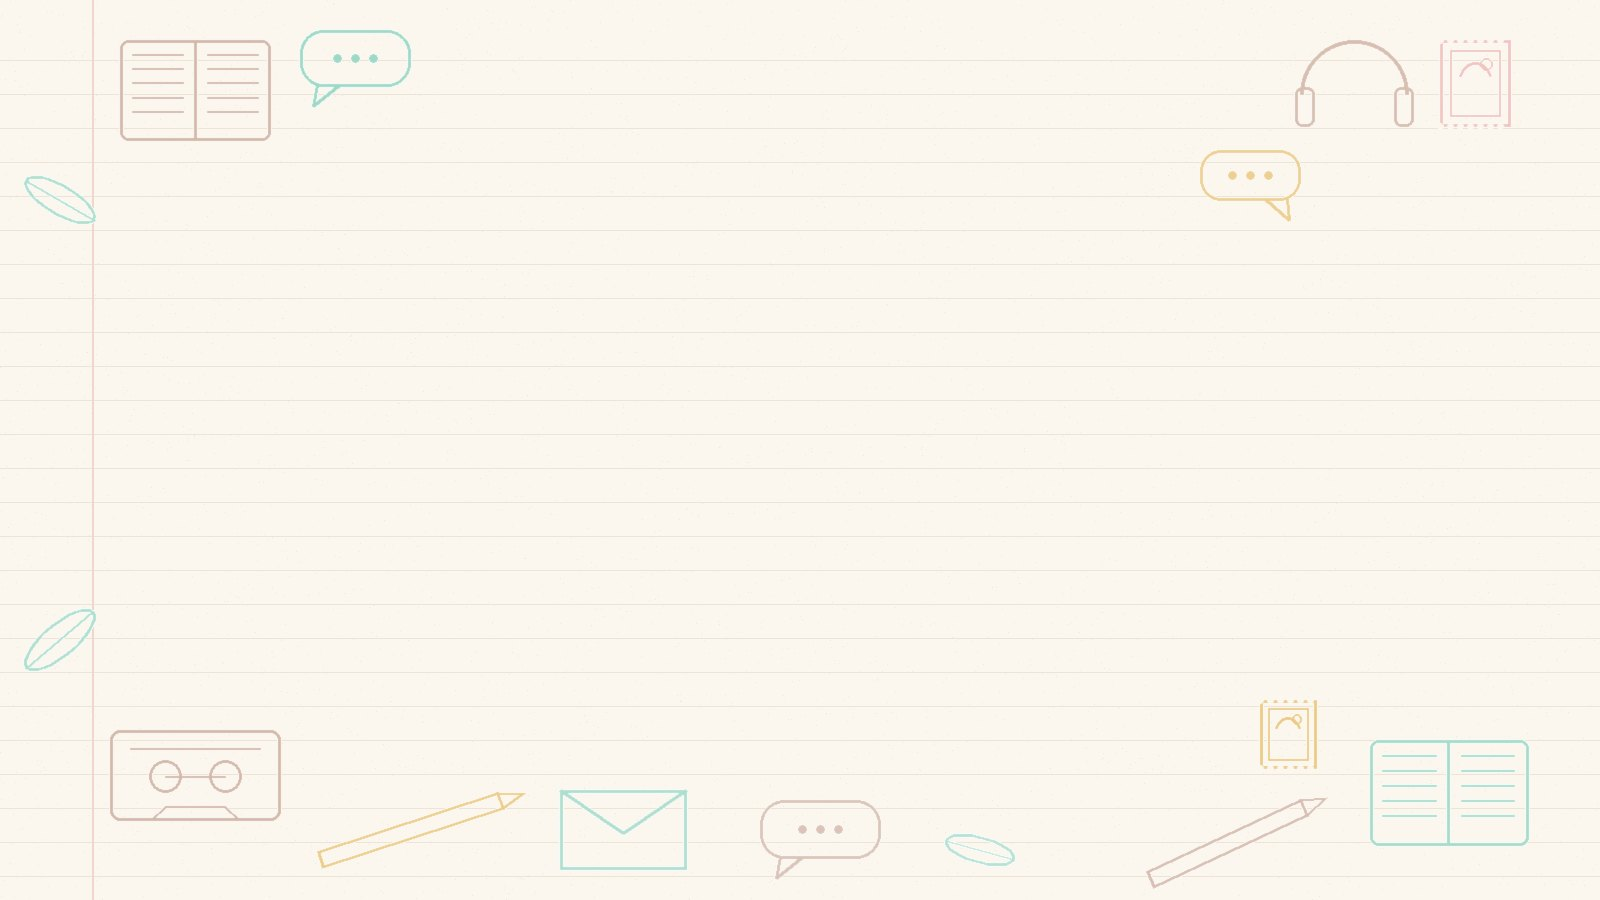
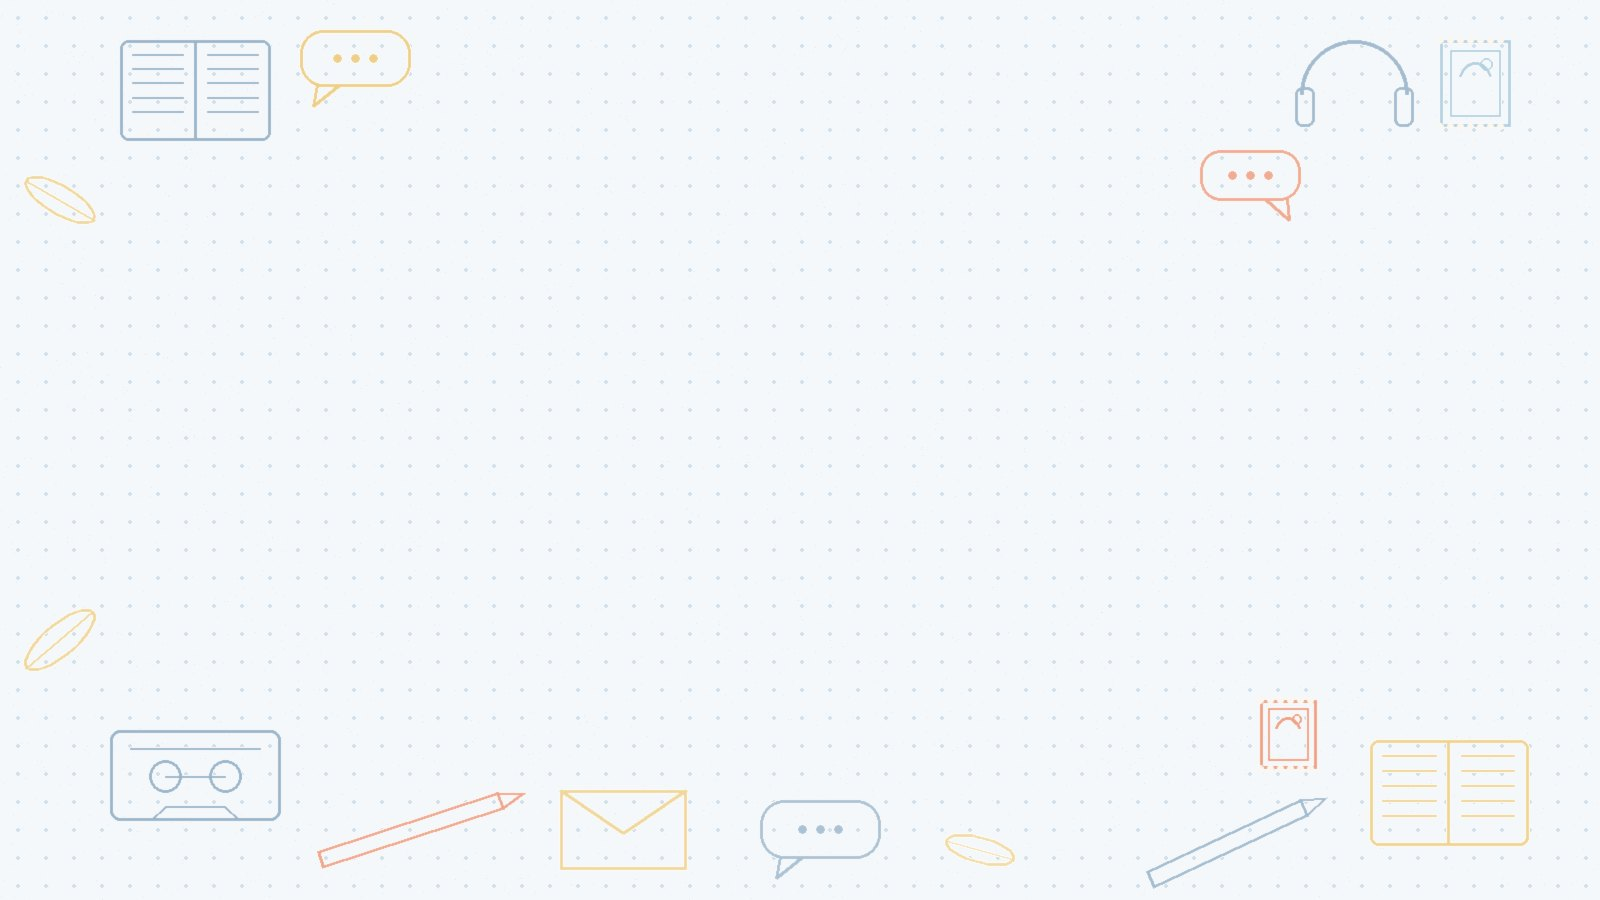
Tiếng Anh 9 – Unit 4: đổi bảng màu + ảnh nền riêng Tiếng Anh 9 (xanh dầu – vàng hướng dương, giấy chấm bi; bản đầu nâu – bạc hà trùng Toán 6); bản dùng thử, đã bảo vệ
Claude-Session: https://claude.ai/code/session_019YRemNpWToN7M1gvxRiyK2

diff --git a/tienganh9-unit04-vao10/index.html b/tienganh9-unit04-vao10/index.html
@@ -490,41 +490,41 @@ main{flex-direction:column; align-items:stretch; max-width:1240px;}
 
 /* ================= PHONG CÁCH RIÊNG – TIẾNG ANH 9 (21/11/2026) =================
    Mỗi môn / mỗi lớp có ảnh nền và thẻ tiêu đề riêng (không dùng chung với môn khác).
-   Tiếng Anh 9: nền giấy kem kẻ dòng nhạt, góc và mép dưới có hình vẽ nét mảnh (sổ tay, bong bóng hội thoại, tai nghe, bút chì, tem thư, lá)
-   vẽ bằng code (nen_ta9.py -> chung/bg.jpg); thẻ tiêu đề câu nâu cà phê → nâu quế (#3E2723 → #7B4B32), số câu vàng kem #FFE3A3,
-   viền dưới xanh bạc hà #4FC3A1; tên bài nâu đậm #4E2A1E, dòng phụ xanh bạc hà đậm #1F7A68.
-   Chỉ đổi màu / ảnh nền, không đổi bố cục khuôn. */
-body, body.part-thong-hieu, body.part-van-dung{background:#FBF7EF url("bg.jpg") center center / cover no-repeat fixed;}
-.qhead.qh5{background:linear-gradient(135deg,#3E2723,#7B4B32); border-bottom:5px solid #4FC3A1;}
-.qhead.qh5 .tag{background:rgba(255,255,255,.15); color:#FFF4E6; border-color:rgba(255,255,255,.4);}
-.qh5 .qno{color:#FFE3A3;}
-.topbar h1{color:#4E2A1E;}
-.topbar p{color:#1F7A68;}
-header.topbar{background:rgba(255,255,255,.66); border-bottom:2px solid rgba(233,222,205,.95);}
-.teacher{box-shadow:0 8px 22px rgba(62,39,35,.16);}
-.teacher img{box-shadow:0 0 0 3px #D7B899;}
-.teacher .tinfo b{color:#6D3F2A;}
-.qcard{box-shadow:0 14px 36px rgba(62,39,35,.13);}
+   Tiếng Anh 9: nền giấy chấm bi xanh nhạt, góc và mép dưới có hình vẽ nét mảnh (sổ tay, bong bóng hội thoại, tai nghe, bút chì, tem thư, cát-xét, phong bì, lá)
+   vẽ bằng code (nen_ta9.py -> chung/bg.jpg); thẻ tiêu đề câu xanh dầu → xanh thép (#12344D → #2B6C8F), số câu hồng đào #FFC6A8,
+   viền dưới vàng hướng dương #F4C542; tên bài xanh dầu #12344D, dòng phụ cam cháy #C0562F.
+   (Đổi 21/11 khuya: bảng nâu cà phê – bạc hà ban đầu trùng với Toán 6 cập nhật cùng ngày.) Chỉ đổi màu / ảnh nền, không đổi bố cục khuôn. */
+body, body.part-thong-hieu, body.part-van-dung{background:#F5F8FB url("bg.jpg") center center / cover no-repeat fixed;}
+.qhead.qh5{background:linear-gradient(135deg,#12344D,#2B6C8F); border-bottom:5px solid #F4C542;}
+.qhead.qh5 .tag{background:rgba(255,255,255,.15); color:#EAF4FB; border-color:rgba(255,255,255,.4);}
+.qh5 .qno{color:#FFC6A8;}
+.topbar h1{color:#12344D;}
+.topbar p{color:#C0562F;}
+header.topbar{background:rgba(255,255,255,.66); border-bottom:2px solid rgba(214,226,236,.95);}
+.teacher{box-shadow:0 8px 22px rgba(18,52,77,.16);}
+.teacher img{box-shadow:0 0 0 3px #A9C7DC;}
+.teacher .tinfo b{color:#1D4E6E;}
+.qcard{box-shadow:0 14px 36px rgba(18,52,77,.13);}
 /* màn chào / màn kết quả (thanh tiêu đề thường) + khung bài đọc theo cùng phong cách */
-.qhead:not(.qh5){background:linear-gradient(135deg,#F3E6D6,#D9F3EA); color:#4E2A1E;}
-.intro h2{color:#5D3524;}
-.intro .sub{color:#1F7A68;}
-.tl-box{border-left-color:#A0694A; background:#FCF6EE;}
-.tl-box b{color:#5D3524;}
+.qhead:not(.qh5){background:linear-gradient(135deg,#DCEBF5,#FFF1CC); color:#12344D;}
+.intro h2{color:#1D4E6E;}
+.intro .sub{color:#C0562F;}
+.tl-box{border-left-color:#4F86A8; background:#F3F8FB;}
+.tl-box b{color:#1D4E6E;}
 /* ================= KHỐI TIẾNG ANH 9 (17/11/2026): nút Nghe, khung hội thoại, loa từng dòng ================= */
-.audio .play{background:linear-gradient(135deg,#5D3524,#8C5A3C); color:#fff; box-shadow:0 6px 0 #3E2723; font-size:1.3rem; padding:14px 34px;}
+.audio .play{background:linear-gradient(135deg,#1D4E6E,#2B6C8F); color:#fff; box-shadow:0 6px 0 #12344D; font-size:1.3rem; padding:14px 34px;}
 .ht{display:flex; flex-direction:column; gap:10px; margin:0 0 16px;}
 .ht-l{display:flex; align-items:flex-end; gap:10px; max-width:94%;}
 .ht-l.r{flex-direction:row-reverse; align-self:flex-end;}
 .ht-av{width:54px; height:54px; border-radius:50%; object-fit:cover; flex:none; background:#fff; box-shadow:0 0 0 3px #fff,0 3px 10px rgba(62,26,85,.18);}
-.ht-b{background:#F3ECE3; border-radius:18px 18px 18px 5px; padding:10px 15px; font-size:1.08rem; line-height:1.45; color:#2B2140;}
+.ht-b{background:#E6F0F7; border-radius:18px 18px 18px 5px; padding:10px 15px; font-size:1.08rem; line-height:1.45; color:#2B2140;}
 .ht-l.r .ht-b{background:#FFEDE4; border-radius:18px 18px 5px 18px;}
-.ht-b b{display:block; font-size:.82rem; letter-spacing:.02em; color:#5D3524; margin-bottom:2px;}
-.ht-l.r .ht-b b{color:#1F7A68; text-align:right;}
+.ht-b b{display:block; font-size:.82rem; letter-spacing:.02em; color:#1D4E6E; margin-bottom:2px;}
+.ht-l.r .ht-b b{color:#C0562F; text-align:right;}
 .ht-b .gap{min-width:120px;}
 .rc-w{display:inline-flex; align-items:center; gap:10px;}
-.mini.rclip{position:static; flex:none; width:40px; height:40px; border-radius:12px; font-size:1.05rem; background:linear-gradient(135deg,#5D3524,#8C5A3C); color:#fff; box-shadow:0 4px 0 #3E2723;}
-.tf.tk th{white-space:nowrap; font-size:1.6rem; color:#5D3524; line-height:1;}
+.mini.rclip{position:static; flex:none; width:40px; height:40px; border-radius:12px; font-size:1.05rem; background:linear-gradient(135deg,#1D4E6E,#2B6C8F); color:#fff; box-shadow:0 4px 0 #12344D;}
+.tf.tk th{white-space:nowrap; font-size:1.6rem; color:#1D4E6E; line-height:1;}
 .tl-box{white-space:pre-line;}
 /* 17/11 tối: chọn tranh – bấm vào hình là chọn, không bật phóng to (dễ nhầm) */
 .opt.pic .media img{pointer-events:none;}
@@ -537,20 +537,20 @@ header.topbar{background:rgba(255,255,255,.66); border-bottom:2px solid rgba(233
 @media (max-width:640px){ .ht-av{width:42px; height:42px;} .ht-b{font-size:1rem;} .mini.rclip{width:36px; height:36px;} }
 /* === CHẾ ĐỘ ĐỀ THI VÀO 10 – TIẾNG ANH 9, 21/11/2026 (từ chế độ đề thi THPT 16/11/2026) === */
 .tp-nopnho{text-align:center;margin:8px 0 0}
-.btn-nop{background:#fff;border:2px solid #5D3524;color:#5D3524;border-radius:999px;padding:8px 26px;font-weight:800;font-size:1rem;cursor:pointer;font-family:inherit}
-.btn-nop:hover{background:#F3ECE3}
+.btn-nop{background:#fff;border:2px solid #12344D;color:#12344D;border-radius:999px;padding:8px 26px;font-weight:800;font-size:1rem;cursor:pointer;font-family:inherit}
+.btn-nop:hover{background:#E6F0F7}
 .tp-navnop{padding:10px 8px 6px;text-align:center}
 .tp-navnop .btn-nop{width:100%}
-#qnav .cell.tp-xong{background:#8C5A3C;color:#fff;border-color:#8C5A3C}
+#qnav .cell.tp-xong{background:#2B6C8F;color:#fff;border-color:#2B6C8F}
 #qnav .cell.tp-do{background:#FFE9B8;border-color:#F0C35A;color:#6B4E00}
 #qnav .cell.now{outline:3px solid #FF8A65;outline-offset:1px}
 .tp-xn{position:fixed;inset:0;background:rgba(25,35,40,.45);z-index:3000;display:flex;align-items:center;justify-content:center;padding:16px}
 .tp-hop{background:#fff;border-radius:20px;max-width:480px;width:100%;padding:22px 24px;box-shadow:0 20px 60px rgba(0,0,0,.25);text-align:center;line-height:1.5}
-.tp-hop h3{margin:0 0 8px;color:#5D3524;font-size:1.4rem}
+.tp-hop h3{margin:0 0 8px;color:#12344D;font-size:1.4rem}
 .tp-nut{display:flex;gap:12px;justify-content:center;margin-top:16px;flex-wrap:wrap}
 .tp-rv{border:2px solid #E3E8EC;border-radius:16px;padding:14px 16px;margin:12px 0;background:#fff;text-align:left;line-height:1.55}
 .tp-rv.ok{border-color:#9ED9B0}.tp-rv.sai{border-color:#F3B3B8}.tp-rv.mot-phan{border-color:#F0C35A}
-.tp-rvh{display:flex;gap:8px;align-items:center;font-size:1rem;color:#5D3524;margin-bottom:6px;flex-wrap:wrap}
+.tp-rvh{display:flex;gap:8px;align-items:center;font-size:1rem;color:#12344D;margin-bottom:6px;flex-wrap:wrap}
 .tp-d{margin-left:auto;font-weight:800;padding:2px 12px;border-radius:999px;background:#F1FAFA;white-space:nowrap}
 .tp-rv.ok .tp-d{background:#E6F6EA;color:#1E6B34}.tp-rv.sai .tp-d{background:#FDE8EA;color:#A61B29}.tp-rv.mot-phan .tp-d{background:#FFF3C4;color:#8A6100}
 .tp-de{font-weight:700;margin-bottom:8px}

diff --git a/tienganh9-unit04/index.html b/tienganh9-unit04/index.html
@@ -490,41 +490,41 @@ main{flex-direction:column; align-items:stretch; max-width:1240px;}
 
 /* ================= PHONG CÁCH RIÊNG – TIẾNG ANH 9 (21/11/2026) =================
    Mỗi môn / mỗi lớp có ảnh nền và thẻ tiêu đề riêng (không dùng chung với môn khác).
-   Tiếng Anh 9: nền giấy kem kẻ dòng nhạt, góc và mép dưới có hình vẽ nét mảnh (sổ tay, bong bóng hội thoại, tai nghe, bút chì, tem thư, lá)
-   vẽ bằng code (nen_ta9.py -> chung/bg.jpg); thẻ tiêu đề câu nâu cà phê → nâu quế (#3E2723 → #7B4B32), số câu vàng kem #FFE3A3,
-   viền dưới xanh bạc hà #4FC3A1; tên bài nâu đậm #4E2A1E, dòng phụ xanh bạc hà đậm #1F7A68.
-   Chỉ đổi màu / ảnh nền, không đổi bố cục khuôn. */
-body, body.part-thong-hieu, body.part-van-dung{background:#FBF7EF url("bg.jpg") center center / cover no-repeat fixed;}
-.qhead.qh5{background:linear-gradient(135deg,#3E2723,#7B4B32); border-bottom:5px solid #4FC3A1;}
-.qhead.qh5 .tag{background:rgba(255,255,255,.15); color:#FFF4E6; border-color:rgba(255,255,255,.4);}
-.qh5 .qno{color:#FFE3A3;}
-.topbar h1{color:#4E2A1E;}
-.topbar p{color:#1F7A68;}
-header.topbar{background:rgba(255,255,255,.66); border-bottom:2px solid rgba(233,222,205,.95);}
-.teacher{box-shadow:0 8px 22px rgba(62,39,35,.16);}
-.teacher img{box-shadow:0 0 0 3px #D7B899;}
-.teacher .tinfo b{color:#6D3F2A;}
-.qcard{box-shadow:0 14px 36px rgba(62,39,35,.13);}
+   Tiếng Anh 9: nền giấy chấm bi xanh nhạt, góc và mép dưới có hình vẽ nét mảnh (sổ tay, bong bóng hội thoại, tai nghe, bút chì, tem thư, cát-xét, phong bì, lá)
+   vẽ bằng code (nen_ta9.py -> chung/bg.jpg); thẻ tiêu đề câu xanh dầu → xanh thép (#12344D → #2B6C8F), số câu hồng đào #FFC6A8,
+   viền dưới vàng hướng dương #F4C542; tên bài xanh dầu #12344D, dòng phụ cam cháy #C0562F.
+   (Đổi 21/11 khuya: bảng nâu cà phê – bạc hà ban đầu trùng với Toán 6 cập nhật cùng ngày.) Chỉ đổi màu / ảnh nền, không đổi bố cục khuôn. */
+body, body.part-thong-hieu, body.part-van-dung{background:#F5F8FB url("bg.jpg") center center / cover no-repeat fixed;}
+.qhead.qh5{background:linear-gradient(135deg,#12344D,#2B6C8F); border-bottom:5px solid #F4C542;}
+.qhead.qh5 .tag{background:rgba(255,255,255,.15); color:#EAF4FB; border-color:rgba(255,255,255,.4);}
+.qh5 .qno{color:#FFC6A8;}
+.topbar h1{color:#12344D;}
+.topbar p{color:#C0562F;}
+header.topbar{background:rgba(255,255,255,.66); border-bottom:2px solid rgba(214,226,236,.95);}
+.teacher{box-shadow:0 8px 22px rgba(18,52,77,.16);}
+.teacher img{box-shadow:0 0 0 3px #A9C7DC;}
+.teacher .tinfo b{color:#1D4E6E;}
+.qcard{box-shadow:0 14px 36px rgba(18,52,77,.13);}
 /* màn chào / màn kết quả (thanh tiêu đề thường) + khung bài đọc theo cùng phong cách */
-.qhead:not(.qh5){background:linear-gradient(135deg,#F3E6D6,#D9F3EA); color:#4E2A1E;}
-.intro h2{color:#5D3524;}
-.intro .sub{color:#1F7A68;}
-.tl-box{border-left-color:#A0694A; background:#FCF6EE;}
-.tl-box b{color:#5D3524;}
+.qhead:not(.qh5){background:linear-gradient(135deg,#DCEBF5,#FFF1CC); color:#12344D;}
+.intro h2{color:#1D4E6E;}
+.intro .sub{color:#C0562F;}
+.tl-box{border-left-color:#4F86A8; background:#F3F8FB;}
+.tl-box b{color:#1D4E6E;}
 /* ================= KHỐI TIẾNG ANH 9 (17/11/2026): nút Nghe, khung hội thoại, loa từng dòng ================= */
-.audio .play{background:linear-gradient(135deg,#5D3524,#8C5A3C); color:#fff; box-shadow:0 6px 0 #3E2723; font-size:1.3rem; padding:14px 34px;}
+.audio .play{background:linear-gradient(135deg,#1D4E6E,#2B6C8F); color:#fff; box-shadow:0 6px 0 #12344D; font-size:1.3rem; padding:14px 34px;}
 .ht{display:flex; flex-direction:column; gap:10px; margin:0 0 16px;}
 .ht-l{display:flex; align-items:flex-end; gap:10px; max-width:94%;}
 .ht-l.r{flex-direction:row-reverse; align-self:flex-end;}
 .ht-av{width:54px; height:54px; border-radius:50%; object-fit:cover; flex:none; background:#fff; box-shadow:0 0 0 3px #fff,0 3px 10px rgba(62,26,85,.18);}
-.ht-b{background:#F3ECE3; border-radius:18px 18px 18px 5px; padding:10px 15px; font-size:1.08rem; line-height:1.45; color:#2B2140;}
+.ht-b{background:#E6F0F7; border-radius:18px 18px 18px 5px; padding:10px 15px; font-size:1.08rem; line-height:1.45; color:#2B2140;}
 .ht-l.r .ht-b{background:#FFEDE4; border-radius:18px 18px 5px 18px;}
-.ht-b b{display:block; font-size:.82rem; letter-spacing:.02em; color:#5D3524; margin-bottom:2px;}
-.ht-l.r .ht-b b{color:#1F7A68; text-align:right;}
+.ht-b b{display:block; font-size:.82rem; letter-spacing:.02em; color:#1D4E6E; margin-bottom:2px;}
+.ht-l.r .ht-b b{color:#C0562F; text-align:right;}
 .ht-b .gap{min-width:120px;}
 .rc-w{display:inline-flex; align-items:center; gap:10px;}
-.mini.rclip{position:static; flex:none; width:40px; height:40px; border-radius:12px; font-size:1.05rem; background:linear-gradient(135deg,#5D3524,#8C5A3C); color:#fff; box-shadow:0 4px 0 #3E2723;}
-.tf.tk th{white-space:nowrap; font-size:1.6rem; color:#5D3524; line-height:1;}
+.mini.rclip{position:static; flex:none; width:40px; height:40px; border-radius:12px; font-size:1.05rem; background:linear-gradient(135deg,#1D4E6E,#2B6C8F); color:#fff; box-shadow:0 4px 0 #12344D;}
+.tf.tk th{white-space:nowrap; font-size:1.6rem; color:#1D4E6E; line-height:1;}
 .tl-box{white-space:pre-line;}
 /* 17/11 tối: chọn tranh – bấm vào hình là chọn, không bật phóng to (dễ nhầm) */
 .opt.pic .media img{pointer-events:none;}
